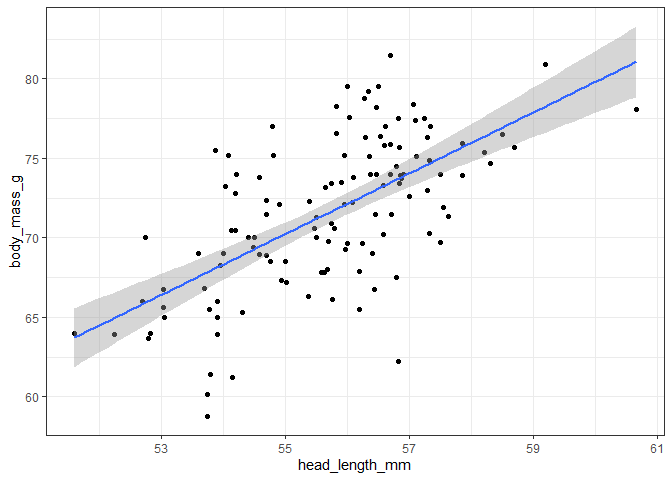
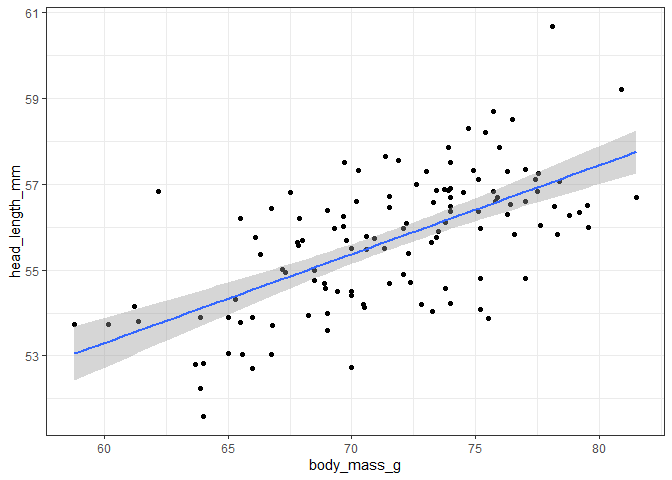
visualizing_trends

diff --git a/05_Visualizing_Trends/visualizing_trends_in_R.md b/05_Visualizing_Trends/visualizing_trends_in_R.md
@@ -1,10 +1,187 @@
 Visualizing trends
 ================
 
-    `geom_smooth()` using formula 'y ~ x'
+## Loading Data
+
+## 1.0 Fitting linear trend lines with `geom_smooth`
+
+``` r
+ggplot(blue_jays) +
+    aes(body_mass_g, head_length_mm) + 
+    geom_point() +
+    geom_smooth(method = 'lm'
+               ) + 
+  theme_bw()
+```
+
+    ## `geom_smooth()` using formula 'y ~ x'
 
 ![](visualizing_trends_in_R_files/figure-gfm/unnamed-chunk-1-1.png)<!-- -->
 
-    `geom_smooth()` using formula 'y ~ x'
+``` r
+ggplot(blue_jays) +
+    aes(body_mass_g, head_length_mm) + 
+    geom_point() +
+    geom_smooth(method = 'lm',
+                se = FALSE) + 
+  theme_bw()
+```
+
+    ## `geom_smooth()` using formula 'y ~ x'
 
 ![](visualizing_trends_in_R_files/figure-gfm/unnamed-chunk-2-1.png)<!-- -->
+
+``` r
+ggplot(blue_jays) +
+    aes(body_mass_g, head_length_mm) + 
+    geom_point() +
+    geom_smooth(method = 'lm',
+                se = FALSE,
+                color = 'firebrick') + 
+  theme_bw()
+```
+
+    ## `geom_smooth()` using formula 'y ~ x'
+
+![](visualizing_trends_in_R_files/figure-gfm/unnamed-chunk-3-1.png)<!-- -->
+
+``` r
+ggplot(blue_jays) +
+    aes(x = body_mass_g,
+        y = head_length_mm, 
+        color = sex) + 
+    geom_point() +
+    geom_smooth(method = 'lm',
+                se = FALSE
+                ) + 
+  theme_bw()
+```
+
+    ## `geom_smooth()` using formula 'y ~ x'
+
+![](visualizing_trends_in_R_files/figure-gfm/unnamed-chunk-4-1.png)<!-- -->
+
+``` r
+ggplot(blue_jays) +
+    aes(x = body_mass_g,
+        y = head_length_mm) + 
+    geom_point() +
+    geom_smooth(method = 'lm',
+                se = FALSE
+                ) + 
+    facet_wrap(vars(sex))
+```
+
+    ## `geom_smooth()` using formula 'y ~ x'
+
+![](visualizing_trends_in_R_files/figure-gfm/unnamed-chunk-5-1.png)<!-- -->
+
+## 2.0 Linear trend lines in log-transformed data
+
+### Data as-is
+
+``` r
+ggplot(biorxiv_growth, aes(date_dec, count)) +
+  geom_point()
+```
+
+![](visualizing_trends_in_R_files/figure-gfm/unnamed-chunk-6-1.png)<!-- -->
+
+``` r
+ggplot(biorxiv_growth, aes(date_dec, count)) +
+  geom_point() +
+  geom_smooth(method = "lm") +
+  scale_y_log10()
+```
+
+    ## `geom_smooth()` using formula 'y ~ x'
+
+![](visualizing_trends_in_R_files/figure-gfm/unnamed-chunk-7-1.png)<!-- -->
+
+### Creating a legend for the regression line
+
+The trick is that we need to set up a placeholder mapping, such as
+`aes(color = "original data")`. A mapping defined with `aes()` doesn’t
+always have to refer to a data column in the original data, it can also
+refer to a constant value provided with the mapping.
+
+``` r
+ggplot(biorxiv_growth, aes(date_dec, count)) +
+  geom_point(aes(color = "original data")) +
+  geom_smooth(aes(color = "regression line"), method = "lm") +
+  scale_y_log10()
+```
+
+    ## `geom_smooth()` using formula 'y ~ x'
+
+![](visualizing_trends_in_R_files/figure-gfm/unnamed-chunk-8-1.png)<!-- -->
+
+``` r
+ggplot(biorxiv_growth, aes(date_dec, count)) +
+  geom_point(aes(color = "original data")) +
+  geom_smooth(aes(color = "regression line"), method = "lm") +
+  scale_y_log10() +
+    scale_color_manual(
+    name = NULL,
+    values = c("black", "firebrick4"),
+    guide = guide_legend(
+      override.aes = list(
+        linetype = c(0, 1),
+        shape = c(19, NA)
+      )
+    )
+  )
+```
+
+    ## `geom_smooth()` using formula 'y ~ x'
+
+![](visualizing_trends_in_R_files/figure-gfm/unnamed-chunk-9-1.png)<!-- -->
+
+## 3.0 Smoothing lines
+
+``` r
+ggplot(cars93, aes(Price, Fuel.tank.capacity)) +
+  geom_point() + 
+  geom_smooth()
+```
+
+    ## `geom_smooth()` using method = 'loess' and formula 'y ~ x'
+
+![](visualizing_trends_in_R_files/figure-gfm/unnamed-chunk-10-1.png)<!-- -->
+
+### Adjusting `span`
+
+``` r
+ggplot(cars93, aes(Price, Fuel.tank.capacity)) +
+  geom_point() + 
+  geom_smooth(
+    span = 0.2
+  )
+```
+
+    ## `geom_smooth()` using method = 'loess' and formula 'y ~ x'
+
+![](visualizing_trends_in_R_files/figure-gfm/unnamed-chunk-11-1.png)<!-- -->
+
+``` r
+ggplot(cars93, aes(Price, Fuel.tank.capacity)) +
+  geom_point() + 
+  geom_smooth(
+    span = 1.5
+  )
+```
+
+    ## `geom_smooth()` using method = 'loess' and formula 'y ~ x'
+
+![](visualizing_trends_in_R_files/figure-gfm/unnamed-chunk-12-1.png)<!-- -->
+
+``` r
+ggplot(cars93, aes(Price, Fuel.tank.capacity)) +
+  geom_point() + 
+  geom_smooth(
+    method = "gam",
+    formula = y ~ s(x, k = 3)
+  )
+```
+
+![](visualizing_trends_in_R_files/figure-gfm/unnamed-chunk-13-1.png)<!-- -->
